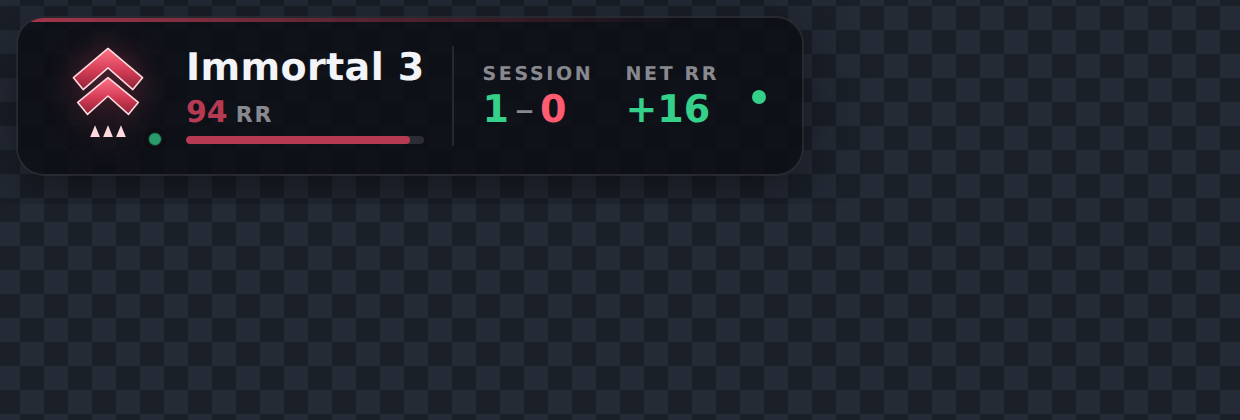
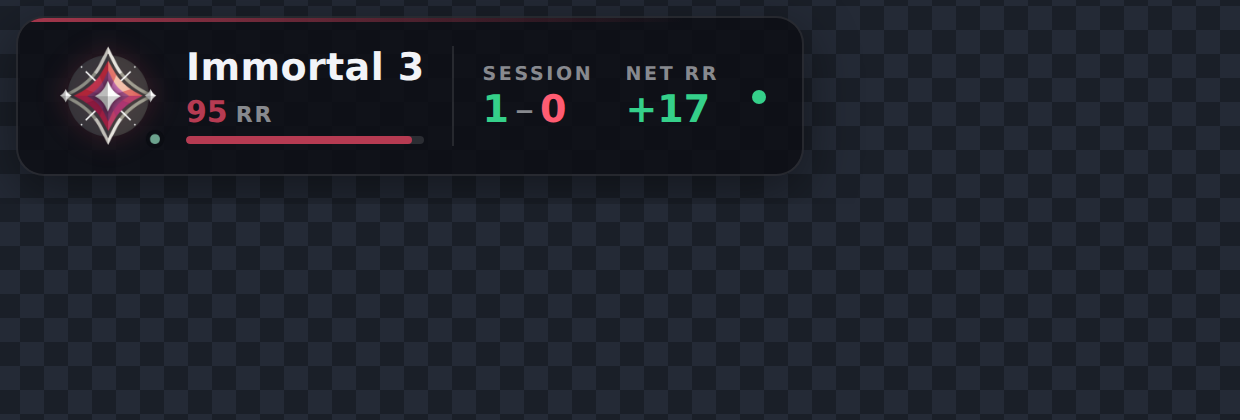
Install real Immortal and Radiant rank art
Ships the actual rank icons in public/ranks, so the Immortal tiers and
Radiant no longer depend on the valorant-api.com download or fall back to
drawn artwork.

Each image is trimmed of transparent padding and centred on a 256px square
canvas. Without that the tiers render at visibly different sizes — the
Immortal 1 source had roughly half its canvas as empty margin, so it came
out noticeably smaller than the others.

Also softens the icon halo, which was tuned for the flat drawn badge and
was too heavy behind real artwork.

Claude-Session: https://claude.ai/code/session_014epAdVG6nghE57LguvVZfM

Changed region(s): [[0.0306, 0.1238, 0.1532, 0.3405], [0.5516, 0.2167, 0.5823, 0.3095], [0.1532, 0.2476, 0.1839, 0.3095]]

diff --git a/valorant-overlay/public/overlay.css b/valorant-overlay/public/overlay.css
@@ -116,7 +116,8 @@ body[data-align='right'] {
   width: 100%;
   height: 100%;
   object-fit: contain;
-  filter: drop-shadow(0 0 calc(10px * var(--scale)) color-mix(in srgb, var(--accent) 55%, transparent));
+  /* A restrained halo: enough to lift the art off a busy stream background. */
+  filter: drop-shadow(0 0 calc(7px * var(--scale)) color-mix(in srgb, var(--accent) 32%, transparent));
 }
 
 .rank-badge {

diff --git a/valorant-overlay/README.md b/valorant-overlay/README.md
@@ -94,22 +94,21 @@ gap starts you fresh. Reset it by hand any time from the control page.
 
 ## Rank art
 
-The agent downloads Riot's own rank icons from `valorant-api.com` on first run
-and caches them, so they keep working offline afterwards. Immortal 1-3 and
-Radiant are fetched before the other tiers.
+Immortal 1-3 and Radiant art ships in `public/ranks`, so those ranks render
+correctly with no download and no internet. Any other tier is fetched from
+`valorant-api.com` on first run and cached.
 
 Resolution order for each rank, first hit wins:
 
-1. An image you dropped in `public/ranks` (e.g. `27.png` for Radiant)
+1. An image in `public/ranks` named after the tier (`27.png` for Radiant)
 2. Riot's art, cached locally from a previous run
 3. Riot's art, fetched live
-4. Drawn artwork built into the overlay — a crimson crest with 1-3 pips for
-   Immortal, a gold starburst for Radiant. A readable stand-in, not Riot's
-   artwork.
+4. Drawn artwork built into the overlay — a readable stand-in, not Riot's art
 
-To use exact art of your own, save it as the tier number in `public/ranks` and
-restart the agent — `24.png` Immortal 1, `25.png` Immortal 2, `26.png`
-Immortal 3, `27.png` Radiant. See `public/ranks/README.md` for the full list.
+To swap in different art, drop it in `public/ranks` as the tier number and
+restart. Trim transparent padding and centre it on a square canvas first, or
+that rank will render at a different size from the others. See
+`public/ranks/README.md`.
 
 ### Immortal and Radiant
 
@@ -148,9 +147,10 @@ keeps polling for three minutes after a match.
 
 **Port 3040 is in use** — set `port` in `config.json`, and update the OBS URL.
 
-**Drawn rank art instead of Riot's** — the agent could not reach
-`valorant-api.com` to download the real icons. It retries on a later run; see
-[Rank art](#rank-art) to drop your own in and skip the download entirely.
+**Drawn rank art instead of the real icons** — only affects ranks below
+Immortal, which are downloaded rather than bundled. The agent could not reach
+`valorant-api.com`; it retries on a later run, or drop the art into
+`public/ranks` yourself. See [Rank art](#rank-art).
 
 **Nothing shows in OBS** — open the URL in a normal browser first. If it works
 there, right-click the source and *Refresh*.

diff --git a/valorant-overlay/public/ranks/README.md b/valorant-overlay/public/ranks/README.md
@@ -1,7 +1,9 @@
-# Drop-in rank art
+# Rank art
 
-Anything you put here overrides the rank art the agent downloads from Riot.
-Name the file after the competitive tier number:
+Anything here overrides the art the agent downloads from Riot. Files are named
+after the competitive tier number.
+
+Immortal and Radiant art is already installed:
 
 | File | Rank |
 |---|---|
@@ -10,9 +12,11 @@ Name the file after the competitive tier number:
 | `26.png` | Immortal 3 |
 | `27.png` | Radiant |
 
-`.png`, `.svg`, `.webp` and `.jpg` all work. Square images look best; the
-overlay scales them to fit. Restart the agent after adding a file.
+To swap one out, replace the file and restart the agent. `.png`, `.svg`,
+`.webp` and `.jpg` all work. Art is trimmed of transparent padding and centred
+on a square canvas so every rank renders at the same size — worth doing to any
+replacement, or that rank will look bigger or smaller than its neighbours.
 
-Full tier numbering, if you need a lower rank: 3–5 Iron 1–3, 6–8 Bronze,
-9–11 Silver, 12–14 Gold, 15–17 Platinum, 18–20 Diamond, 21–23 Ascendant,
-24–26 Immortal, 27 Radiant.
+Full tier numbering, for any rank below Immortal: 3-5 Iron 1-3, 6-8 Bronze,
+9-11 Silver, 12-14 Gold, 15-17 Platinum, 18-20 Diamond, 21-23 Ascendant,
+24-26 Immortal, 27 Radiant.
